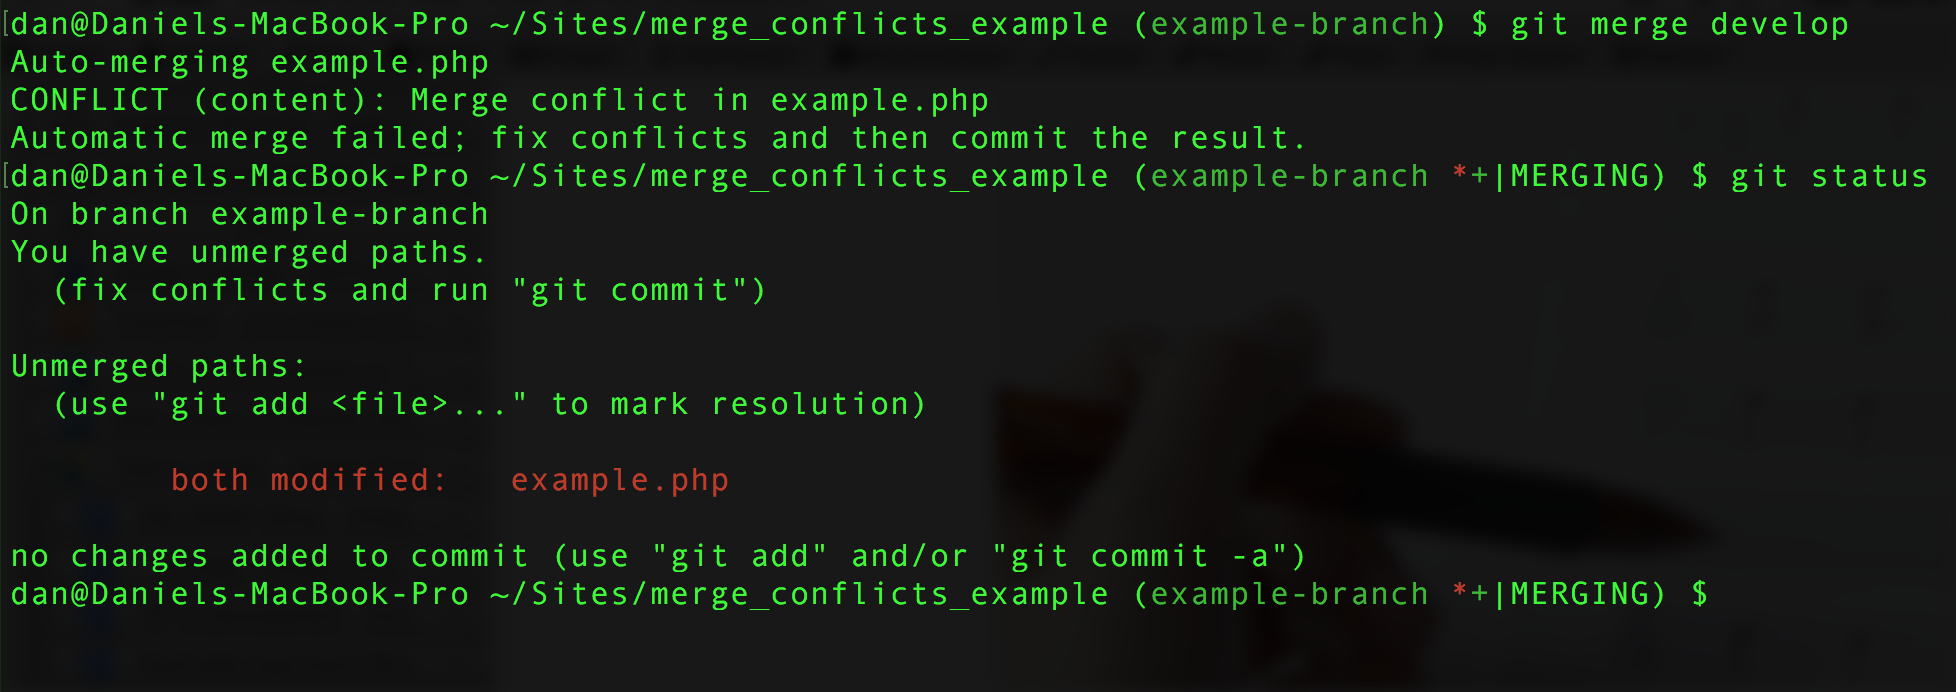
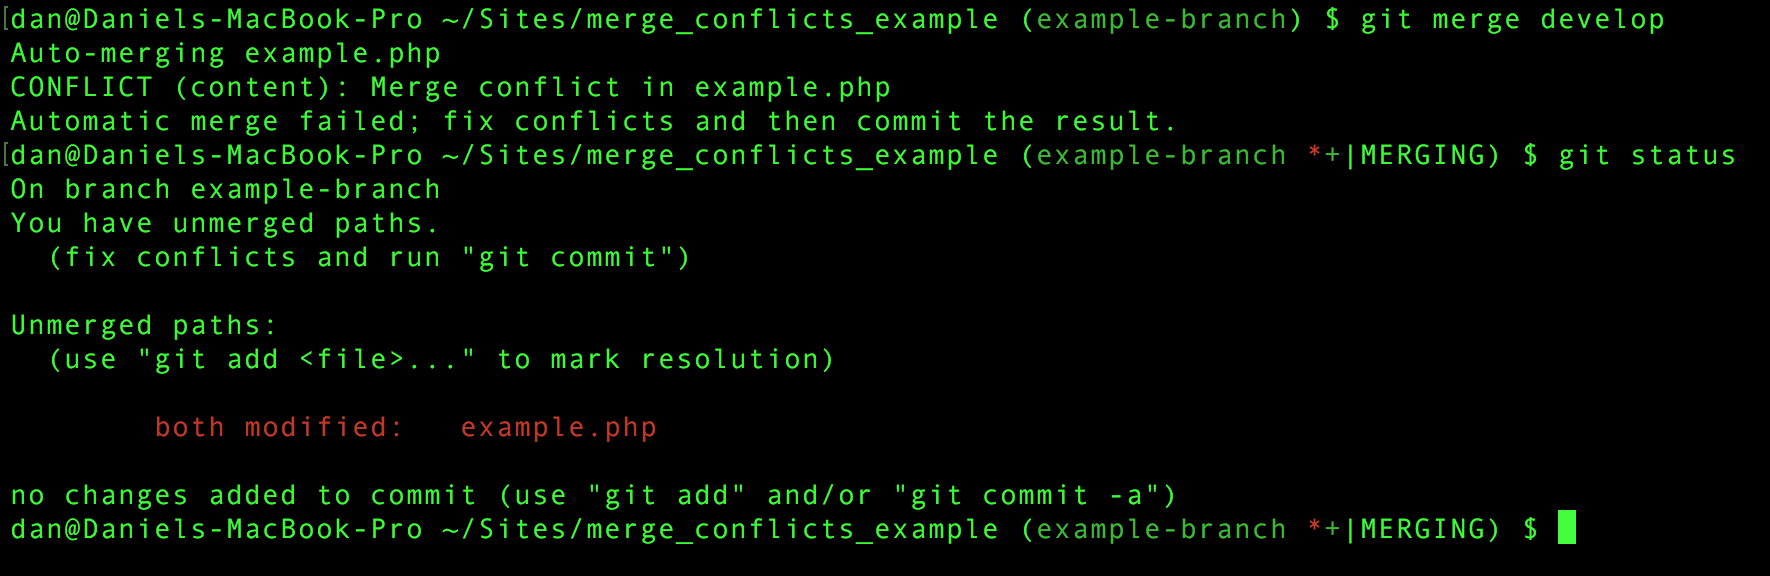
Issue #1503: Anne's feedback, update image w/ opaque background

diff --git a/_posts/2016-06-15-git-merge-conflict-strategies.md b/_posts/2016-06-15-git-merge-conflict-strategies.md
@@ -37,7 +37,7 @@ Git is smart, and non-overlapping changes (areas of code modified by one branch 
 
 ## Merge conflicts
 
-If your branch and the target branch both changed the same part of the same file, then Git won’t be able to merge them cleanly. Each of these discrepancies result in a merge conflict.
+If your branch and the target branch both changed the same part of the same file, then Git won’t be able to merge them cleanly. Each of these discrepancies results in a merge conflict.
 
 In these cases, Git leaves the changes made by both your branch and the target (separated by special conflict markers) and notifies you that there was a conflict.
 
